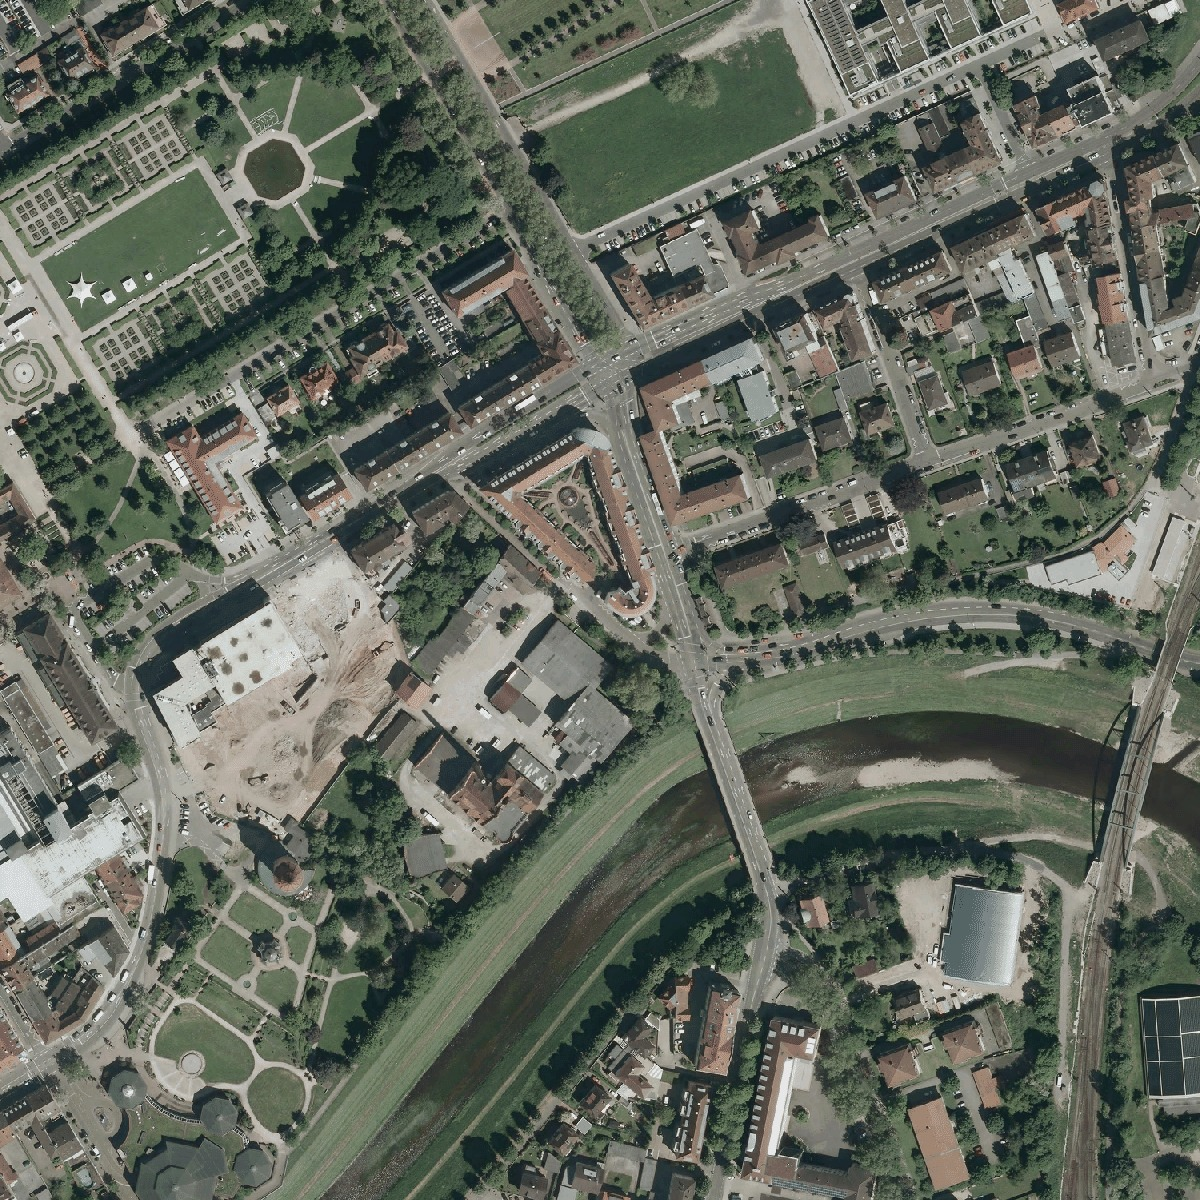
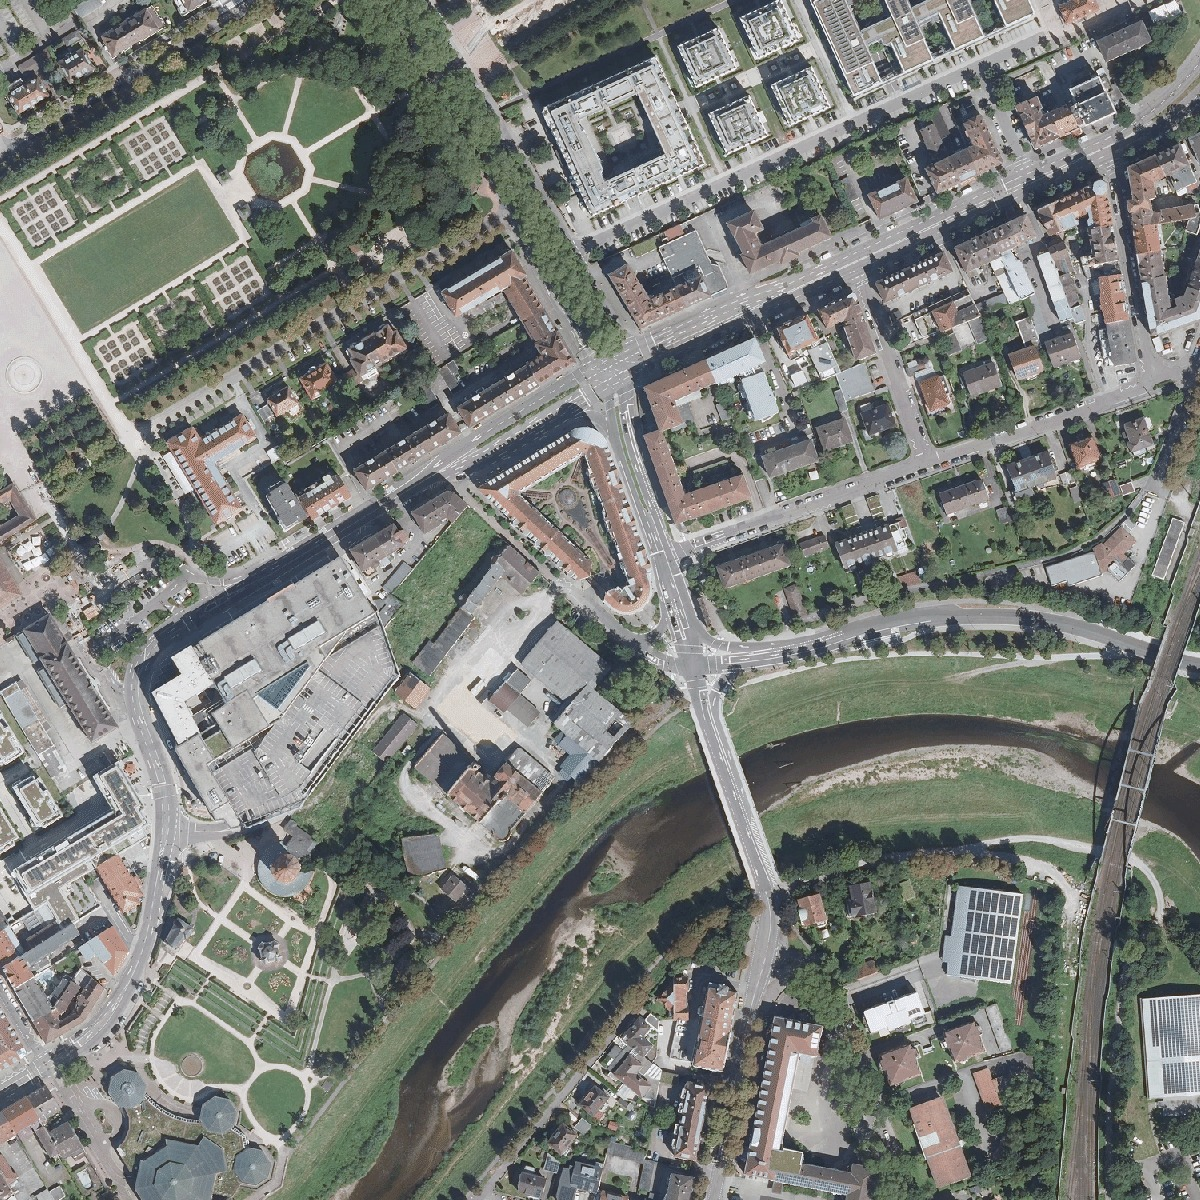
Fix demo mode: earlier/later images were swapped
The demo pair had reference (earlier) and target (later) backwards, so
every cached change's direction and description narrated the wrong
chronology (e.g. "demolished" for a building that was actually built).
Swapped the files and regenerated the cached result. Also adds a "Try
demo" button next to the settings button in the topbar for quicker access.

diff --git a/app/page.tsx b/app/page.tsx
@@ -991,6 +991,15 @@ export default function Home() {
         <div className="row" style={{ gap: 10 }}>
           <button
             className="icon-btn"
+            onClick={loadDemo}
+            disabled={busy}
+            title={t("demo.tip")}
+            style={{ fontSize: 14.5, fontWeight: 600, whiteSpace: "nowrap" }}
+          >
+            {t("demo.try")}
+          </button>
+          <button
+            className="icon-btn"
             onClick={() => setSettingsOpen(true)}
             title={t("settings.tipOpen")}
             aria-label={t("settings.topbarLabel")}

diff --git a/CHANGELOG.md b/CHANGELOG.md
@@ -26,7 +26,7 @@ exists.
 
 ## [Unreleased]
 
-_Nothing yet._
+- Demo Mode: Fix the earlier/later demo images being swapped, which also had every cached change's direction (added/removed) and description backwards; also added a "Try demo" button next to the settings button in the topbar.
 
 ## [1.8.0] — 2026-08-01
 
